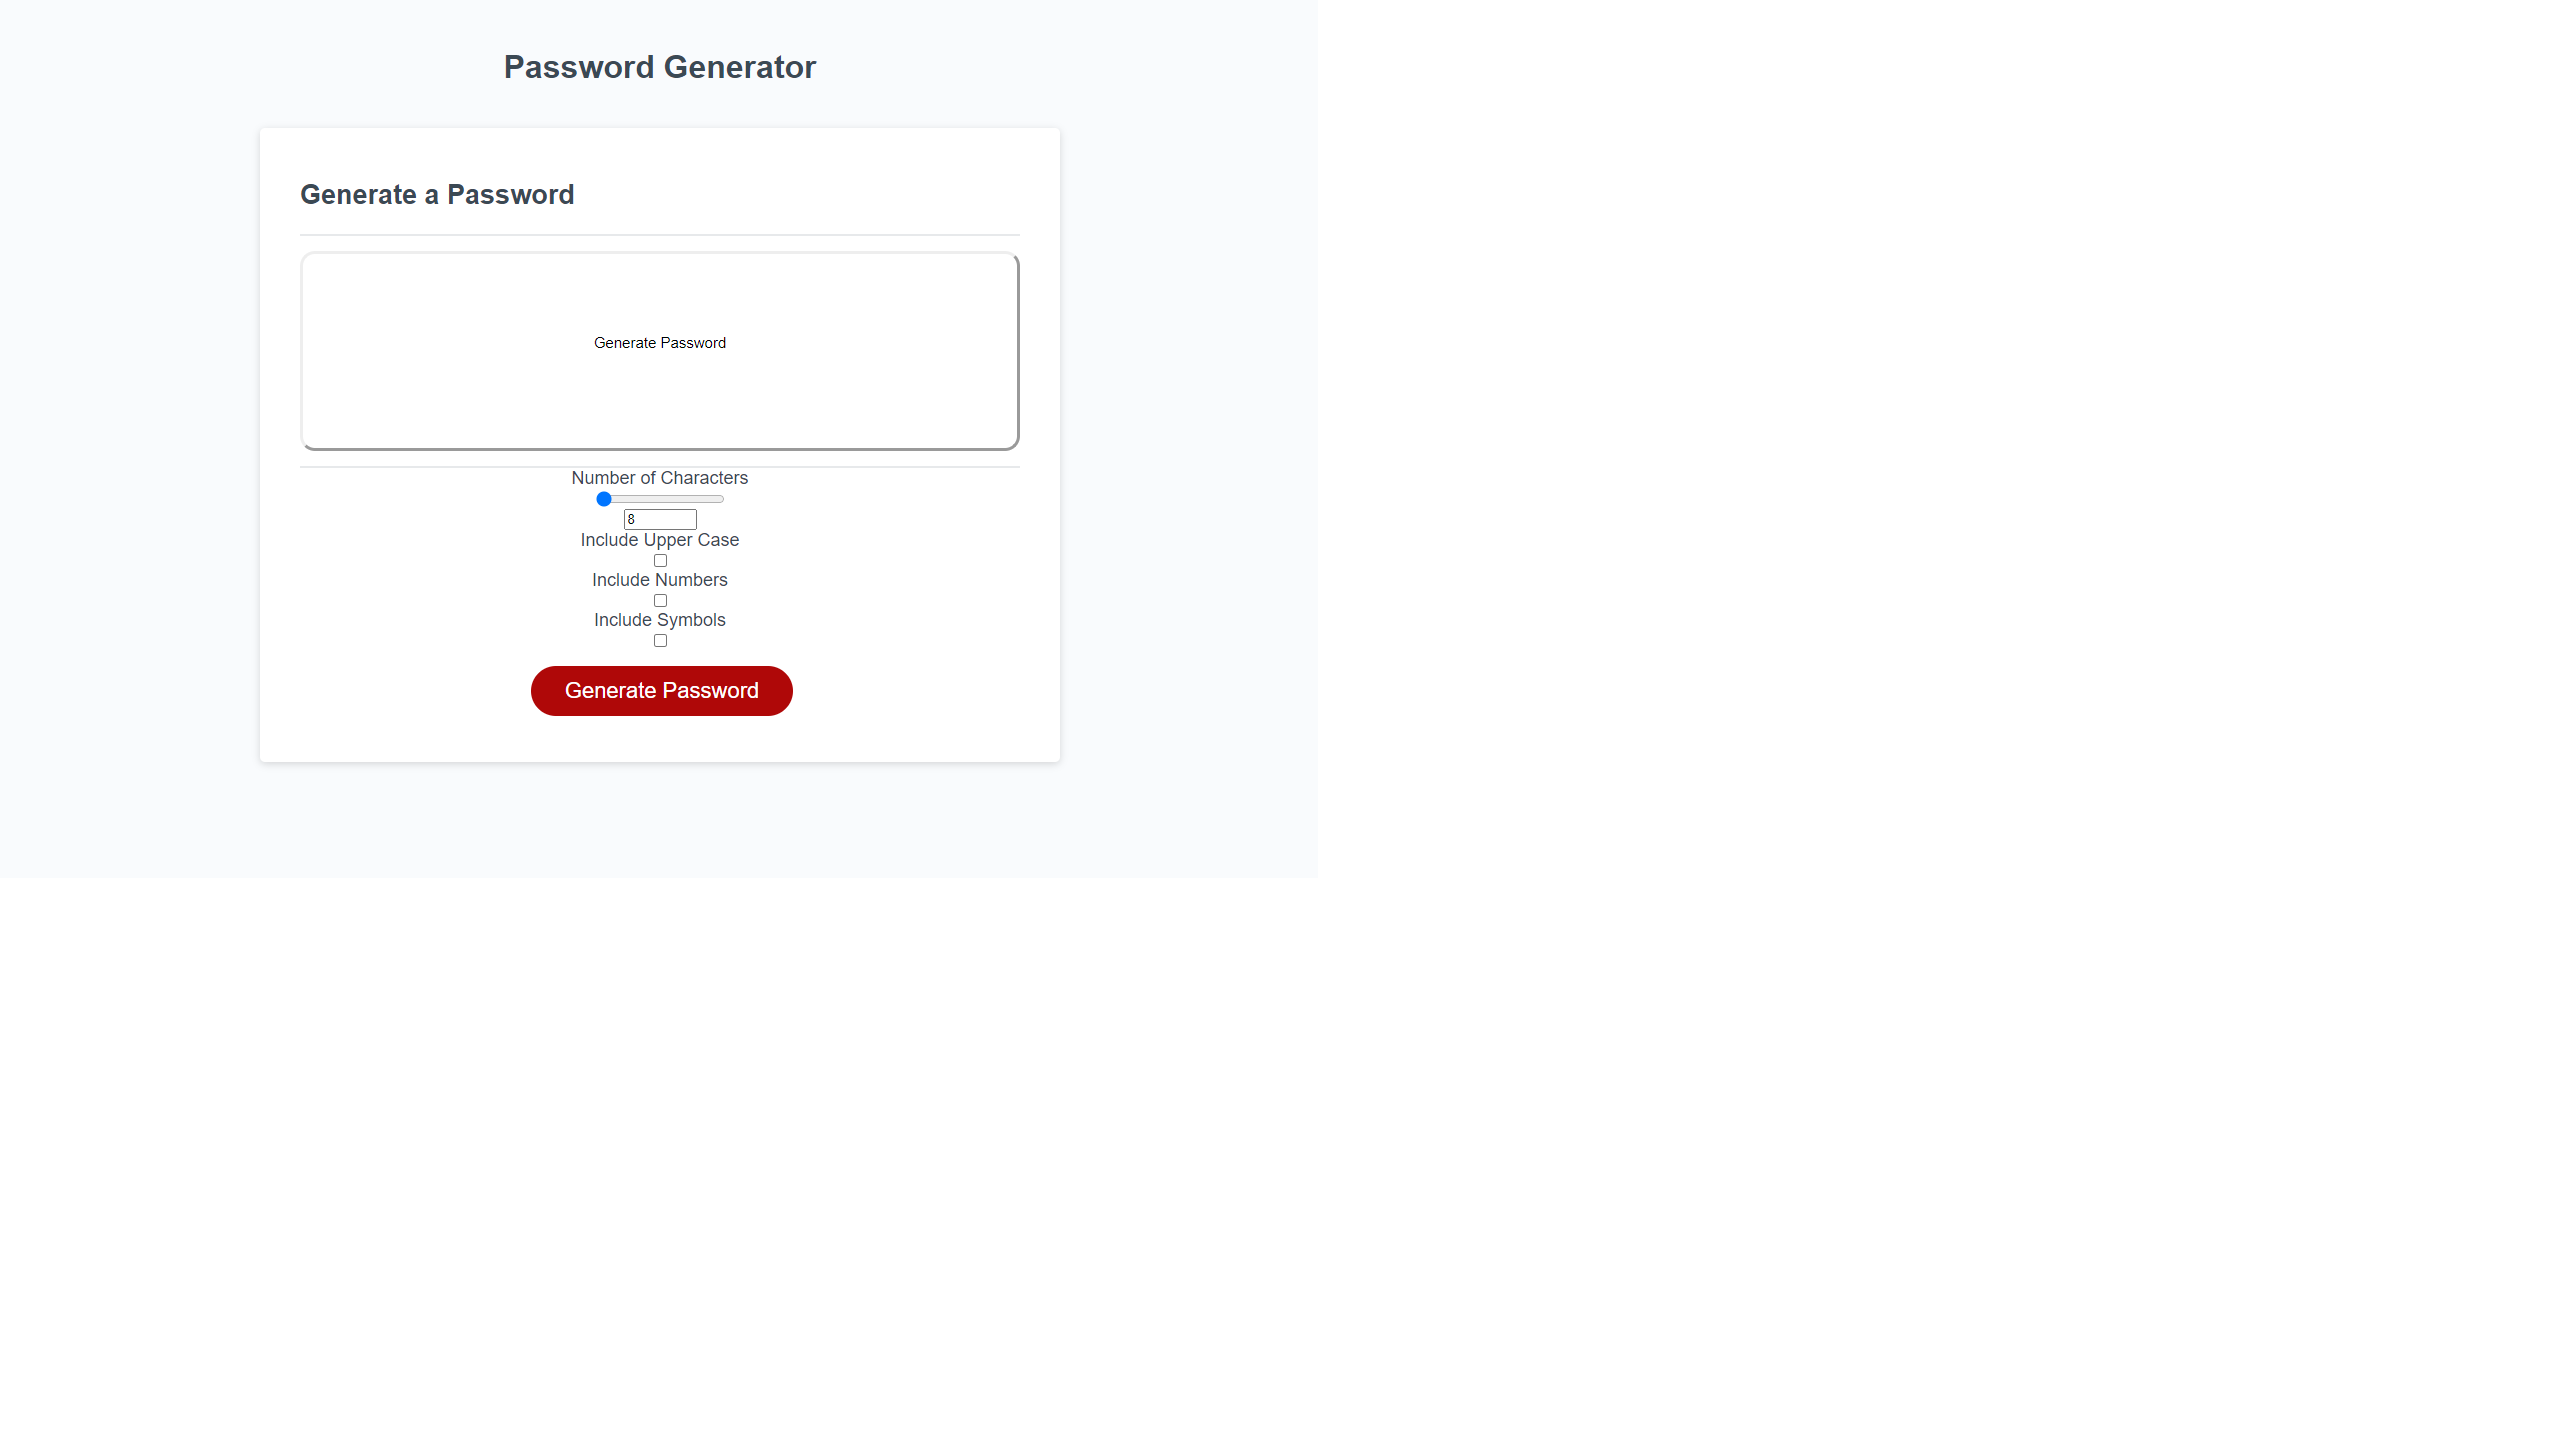
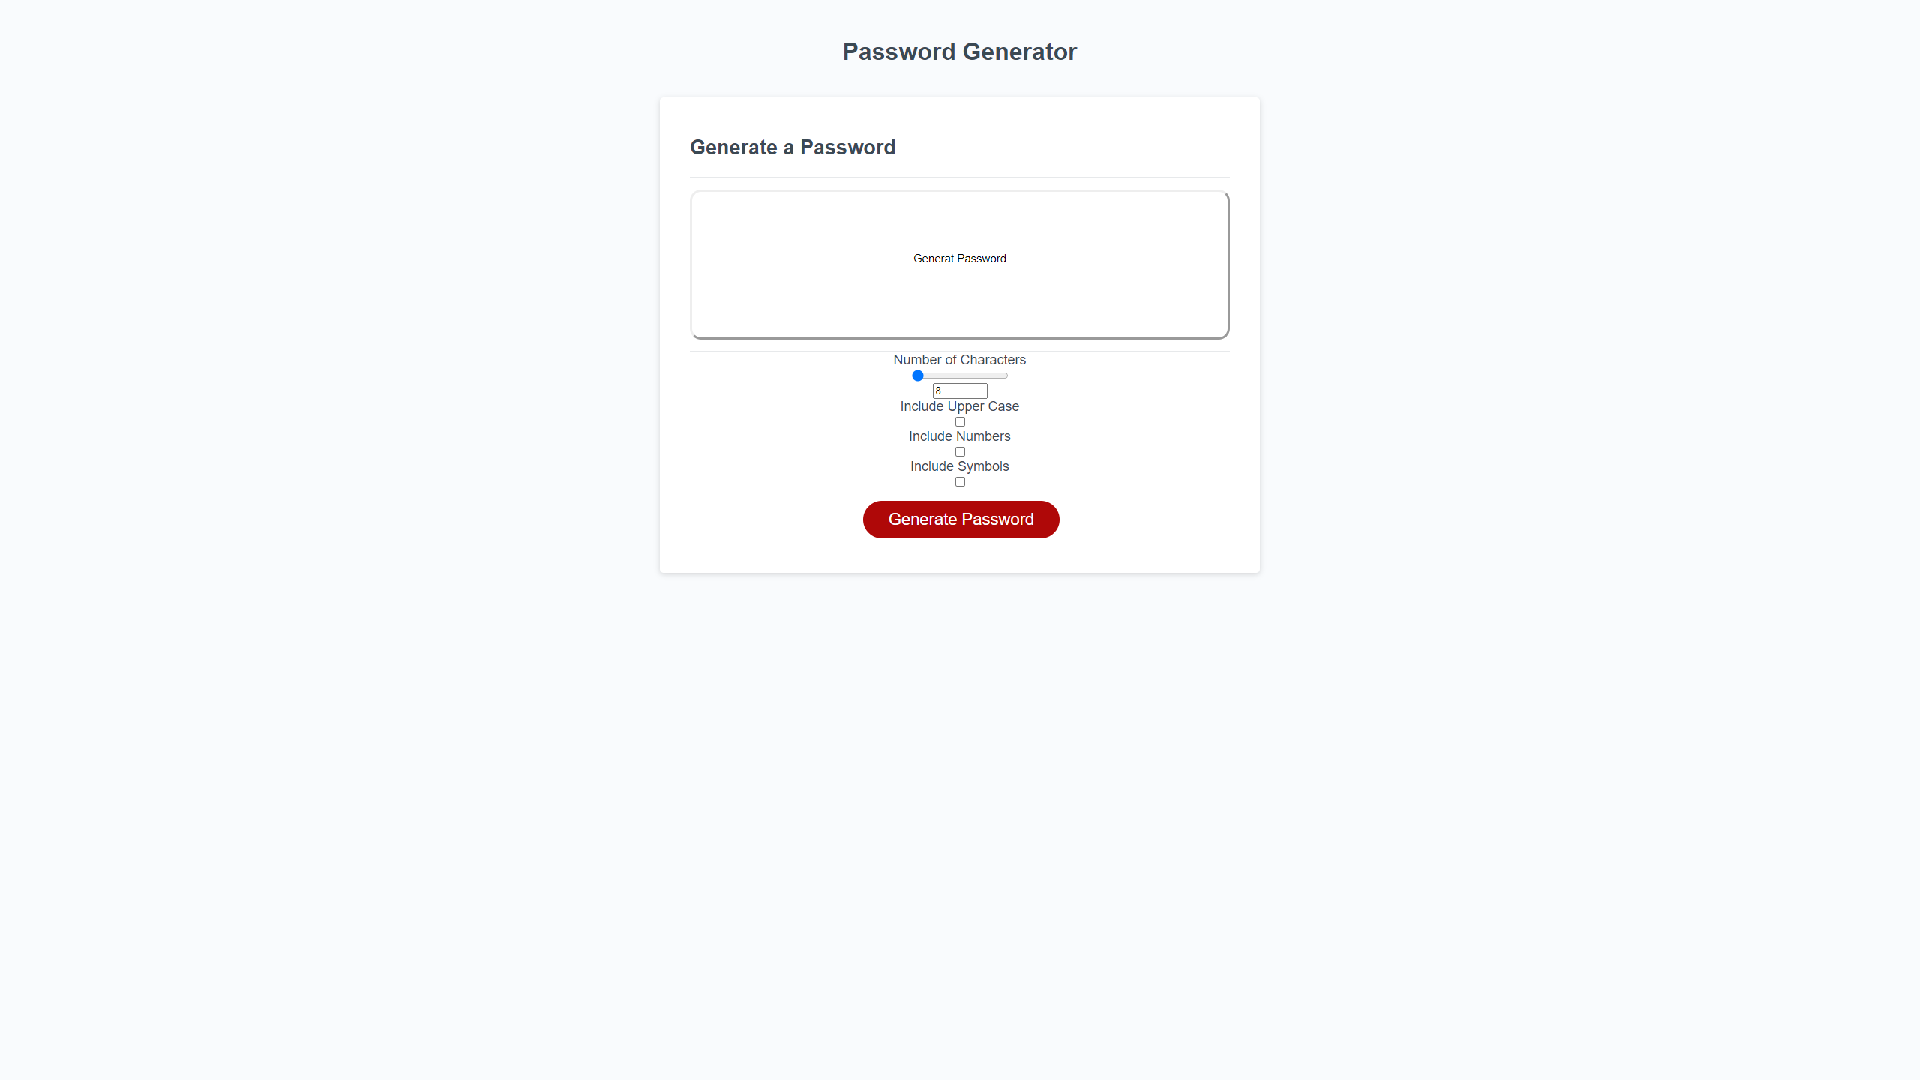
retouch

diff --git a/index.html b/index.html
@@ -18,7 +18,7 @@
           <h2>Generate a Password</h2>
         </div>
         <div class="random-password">
-          <textarea class="passwordDisplay" id="passwordDisplay">Generat Password</textarea>
+          <textarea class="passwordDisplay" id="passwordDisplay">Generate Password</textarea>
         </div>
         <div class="card-footer">
 
